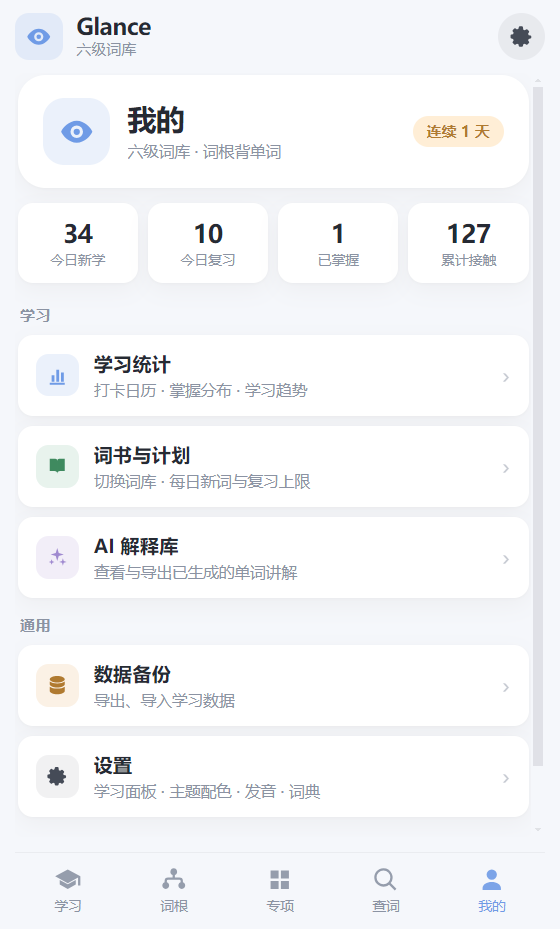
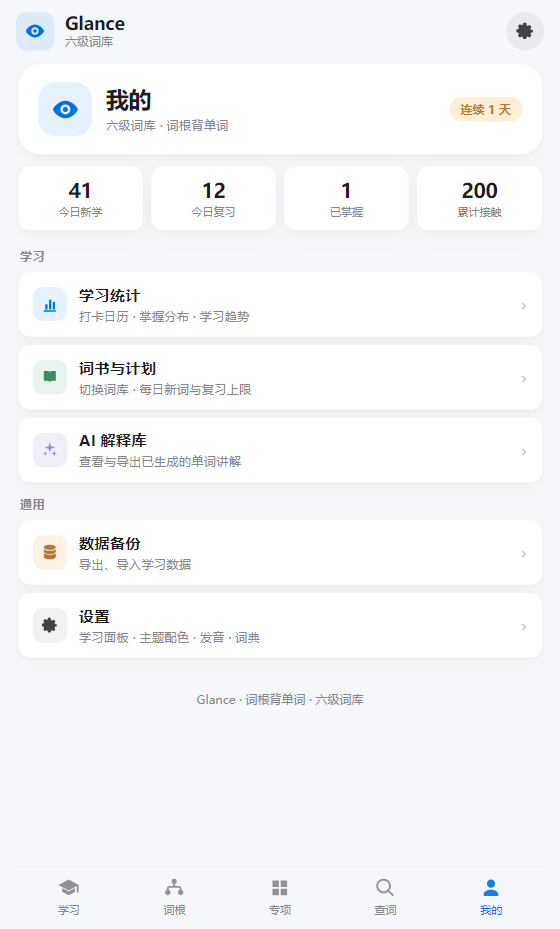
Redesign the theme system with eight ui-style-selector palettes
Replace the generic five colors with an Apple-led set (Apple, Japanese
Fresh, Warm Dashboard, Scandinavian, Monochrome, Notion, Korean Minimal,
Soft UI), each with light/dark tokens and a harmonized secondary accent
for the book banner and progress bar.

diff --git a/app/css/app.css b/app/css/app.css
@@ -1,16 +1,17 @@
 /* Glance — soft, calm design system. Muted pastel palette, light + dark. */
 :root {
-  --bg: #f5f7fb;
+  --bg: #f5f7fa;
   --card: #ffffff;
   --elevated: #ffffff;
-  --text: #262a33;
-  --text-2: #454b57;
-  --text-3: #8b93a3;
+  --text: #1d1d1f;
+  --text-2: #424245;
+  --text-3: #86868b;
   --separator: rgba(60, 60, 67, 0.1);
-  --hairline: rgba(0, 0, 0, 0.045);
+  --hairline: rgba(0, 0, 0, 0.05);
   --fill: rgba(120, 120, 128, 0.1);
   --fill-2: rgba(120, 120, 128, 0.17);
-  --accent: #6f9be6;
+  --accent: #0071e3;
+  --accent-2: #5e5ce6;
   --accent-fg: #ffffff;
   --green: #6fb58c;
   --green-fg: #3f8a5f;
@@ -20,8 +21,8 @@
   --red: #e0806d;
   --red-fg: #c05a48;
 
-  --root-bg: rgba(111, 155, 230, 0.14);
-  --root-fg: #4a7fc9;
+  --root-bg: rgba(0, 113, 227, 0.1);
+  --root-fg: #0068d1;
   --prefix-bg: rgba(160, 138, 208, 0.14);
   --prefix-fg: #8a6cc0;
   --suffix-bg: rgba(111, 181, 140, 0.16);
@@ -37,37 +38,80 @@
 }
 
 /* ---------- color themes ---------- */
+/* Japanese Fresh — matcha sage */
 html[data-theme="green"] {
-  --bg: #eff6f2; --card: #ffffff; --elevated: #ffffff;
-  --accent: #6aac83; --root-bg: rgba(106, 172, 131, 0.16); --root-fg: #3a7555;
+  --bg: #f4f7f1; --card: #ffffff; --elevated: #ffffff;
+  --text: #2c3730; --text-2: #48584e; --text-3: #83928a;
+  --accent: #53896a; --accent-2: #86b59a; --accent-fg: #ffffff;
+  --root-bg: rgba(152, 216, 200, 0.2); --root-fg: #3f7a68;
+  --hairline: rgba(44, 55, 48, 0.07);
 }
+/* Warm Dashboard — terracotta */
 html[data-theme="yellow"] {
-  --bg: #fbf4e6; --card: #ffffff; --elevated: #ffffff;
-  --accent: #cf9a3f; --root-bg: rgba(207, 154, 63, 0.18); --root-fg: #8c631c;
+  --bg: #faf5ee; --card: #fffdf9; --elevated: #fffdf9;
+  --text: #3a2f27; --text-2: #5c4c40; --text-3: #9a877a;
+  --accent: #b0674f; --accent-2: #d99a7a; --accent-fg: #ffffff;
+  --root-bg: rgba(212, 160, 136, 0.2); --root-fg: #9a5b43;
+  --hairline: rgba(58, 47, 39, 0.07);
 }
+/* Scandinavian — warm neutral */
 html[data-theme="gray"] {
-  --bg: #eff1f4; --card: #ffffff; --elevated: #ffffff;
-  --accent: #7d8899; --root-bg: rgba(125, 136, 153, 0.16); --root-fg: #515b6a;
+  --bg: #f3f2f0; --card: #ffffff; --elevated: #ffffff;
+  --text: #2f3335; --text-2: #4f565a; --text-3: #878e93;
+  --accent: #6d7b84; --accent-2: #9aa7ae; --accent-fg: #ffffff;
+  --root-bg: rgba(109, 123, 132, 0.14); --root-fg: #4e5c66;
+  --hairline: rgba(47, 51, 53, 0.07);
 }
+/* Monochrome — ink */
 html[data-theme="black"] {
-  --bg: #ededef; --card: #ffffff; --elevated: #ffffff;
-  --accent: #2f333a; --root-bg: rgba(47, 51, 58, 0.1); --root-fg: #2f333a;
+  --bg: #f6f6f6; --card: #ffffff; --elevated: #ffffff;
+  --text: #111111; --text-2: #333333; --text-3: #8a8a8a;
+  --accent: #1d1d1f; --accent-2: #4a4a4f; --accent-fg: #ffffff;
+  --root-bg: rgba(17, 17, 17, 0.08); --root-fg: #1d1d1f;
+  --hairline: rgba(0, 0, 0, 0.07);
+}
+/* Notion — paper + teal ink */
+html[data-theme="paper"] {
+  --bg: #f7f7f5; --card: #ffffff; --elevated: #ffffff;
+  --text: #37352f; --text-2: #5c594f; --text-3: #8f8b81;
+  --accent: #0f7b6c; --accent-2: #3fa796; --accent-fg: #ffffff;
+  --root-bg: rgba(15, 123, 108, 0.1); --root-fg: #0b6557;
+  --hairline: rgba(55, 53, 47, 0.08);
+}
+/* Korean Minimal — dusty rose */
+html[data-theme="sakura"] {
+  --bg: #faf7f7; --card: #ffffff; --elevated: #ffffff;
+  --text: #352d2f; --text-2: #5b4e51; --text-3: #a08f93;
+  --accent: #ad6673; --accent-2: #d5a3ab; --accent-fg: #ffffff;
+  --root-bg: rgba(212, 165, 165, 0.22); --root-fg: #955c66;
+  --prefix-bg: rgba(168, 197, 184, 0.22); --prefix-fg: #5c7f6f;
+  --hairline: rgba(53, 45, 47, 0.07);
+}
+/* Soft UI — indigo */
+html[data-theme="violet"] {
+  --bg: #f4f4fb; --card: #ffffff; --elevated: #ffffff;
+  --text: #2f2d3a; --text-2: #4f4b63; --text-3: #8b86a0;
+  --accent: #6c63c9; --accent-2: #9a93e0; --accent-fg: #ffffff;
+  --root-bg: rgba(108, 99, 201, 0.12); --root-fg: #554bab;
+  --hairline: rgba(47, 45, 58, 0.06);
 }
 
 @media (prefers-color-scheme: dark) {
+  /* Apple — default dark */
   :root {
-    --bg: #16181d;
-    --card: #1f232b;
-    --elevated: #262b34;
-    --text: #e8e6e1;
-    --text-2: #c9c8c4;
-    --text-3: #8b8f98;
+    --bg: #131418;
+    --card: #1c1c1e;
+    --elevated: #242426;
+    --text: #f5f5f7;
+    --text-2: #c7c7cc;
+    --text-3: #8e8e93;
     --separator: rgba(84, 84, 88, 0.5);
     --hairline: rgba(255, 255, 255, 0.06);
     --fill: rgba(120, 120, 128, 0.2);
     --fill-2: rgba(120, 120, 128, 0.3);
-    --accent: #93b8f0;
-    --accent-fg: #16181d;
+    --accent: #0a84ff;
+    --accent-2: #5e5ce6;
+    --accent-fg: #ffffff;
     --green: #8fd0a8;
     --green-fg: #8fd0a8;
     --purple: #bda6e6;
@@ -76,8 +120,8 @@ html[data-theme="black"] {
     --red: #e89a88;
     --red-fg: #e89a88;
 
-    --root-bg: rgba(147, 184, 240, 0.18);
-    --root-fg: #aecbf2;
+    --root-bg: rgba(10, 132, 255, 0.18);
+    --root-fg: #6cb2ff;
     --prefix-bg: rgba(189, 166, 230, 0.18);
     --prefix-fg: #cdb9ee;
     --suffix-bg: rgba(143, 208, 168, 0.18);
@@ -86,21 +130,62 @@ html[data-theme="black"] {
     --shadow-card: 0 1px 2px rgba(0, 0, 0, 0.25);
     --shadow-pop: 0 8px 28px rgba(0, 0, 0, 0.45);
   }
+  /* Japanese Fresh — matcha sage */
   html[data-theme="green"] {
-    --bg: #131a16; --card: #1e2721; --elevated: #25312a;
-    --accent: #8fd0a8; --root-bg: rgba(143, 208, 168, 0.16); --root-fg: #a8d8bc;
+    --bg: #141a16; --card: #1e2721; --elevated: #25312a;
+    --text: #e6ece8; --text-2: #c2cec6; --text-3: #8a9a90;
+    --accent: #7fc79d; --accent-2: #4b8f6d; --accent-fg: #0f1a14;
+    --root-bg: rgba(127, 199, 157, 0.16); --root-fg: #9ed9b6;
+    --hairline: rgba(255, 255, 255, 0.06);
   }
+  /* Warm Dashboard — terracotta */
   html[data-theme="yellow"] {
-    --bg: #1b1711; --card: #27231c; --elevated: #302b22;
-    --accent: #e6c07f; --root-bg: rgba(230, 192, 127, 0.16); --root-fg: #e6c07f;
+    --bg: #1c1713; --card: #26201a; --elevated: #302821;
+    --text: #f0e7dd; --text-2: #d4c5b6; --text-3: #a08d7c;
+    --accent: #e0a17c; --accent-2: #b0674f; --accent-fg: #21150f;
+    --root-bg: rgba(224, 161, 124, 0.16); --root-fg: #eeb997;
+    --hairline: rgba(255, 255, 255, 0.06);
   }
+  /* Scandinavian — warm neutral */
   html[data-theme="gray"] {
-    --bg: #141519; --card: #212327; --elevated: #292c31;
-    --accent: #aeb7c4; --root-bg: rgba(174, 183, 196, 0.16); --root-fg: #c3cad4;
+    --bg: #141516; --card: #1f2123; --elevated: #282b2d;
+    --text: #e9eaea; --text-2: #c4c8cb; --text-3: #8d9499;
+    --accent: #a9b6bd; --accent-2: #6d7b84; --accent-fg: #121517;
+    --root-bg: rgba(169, 182, 189, 0.16); --root-fg: #c3ccd2;
+    --hairline: rgba(255, 255, 255, 0.06);
   }
+  /* Monochrome — ink */
   html[data-theme="black"] {
-    --bg: #0c0d0f; --card: #1a1b1e; --elevated: #222327;
-    --accent: #e6e7ea; --root-bg: rgba(230, 231, 234, 0.12); --root-fg: #eceef1;
+    --bg: #0b0b0c; --card: #17181a; --elevated: #202123;
+    --text: #f2f2f3; --text-2: #c9c9cb; --text-3: #8a8a8c;
+    --accent: #ecedee; --accent-2: #9a9a9e; --accent-fg: #0b0b0c;
+    --root-bg: rgba(236, 237, 238, 0.12); --root-fg: #f2f2f3;
+    --hairline: rgba(255, 255, 255, 0.07);
+  }
+  /* Notion — paper + teal ink */
+  html[data-theme="paper"] {
+    --bg: #191919; --card: #212121; --elevated: #2a2a2a;
+    --text: #e9e7e2; --text-2: #c4c1ba; --text-3: #8f8b83;
+    --accent: #4cc4ad; --accent-2: #2f8f7f; --accent-fg: #0d1a17;
+    --root-bg: rgba(76, 196, 173, 0.16); --root-fg: #7dd8c6;
+    --hairline: rgba(255, 255, 255, 0.07);
+  }
+  /* Korean Minimal — dusty rose */
+  html[data-theme="sakura"] {
+    --bg: #1b1517; --card: #251d20; --elevated: #2e2427;
+    --text: #efe6e7; --text-2: #d0c1c3; --text-3: #a08f93;
+    --accent: #e2a3ae; --accent-2: #ad6673; --accent-fg: #23171a;
+    --root-bg: rgba(226, 163, 174, 0.16); --root-fg: #edbcc4;
+    --prefix-bg: rgba(168, 197, 184, 0.16); --prefix-fg: #a9cbbb;
+    --hairline: rgba(255, 255, 255, 0.07);
+  }
+  /* Soft UI — indigo */
+  html[data-theme="violet"] {
+    --bg: #15141c; --card: #1f1e2a; --elevated: #272634;
+    --text: #e8e6f2; --text-2: #c6c3d8; --text-3: #938fab;
+    --accent: #a49df0; --accent-2: #7a72d8; --accent-fg: #17151c;
+    --root-bg: rgba(164, 157, 240, 0.16); --root-fg: #bcb6f5;
+    --hairline: rgba(255, 255, 255, 0.06);
   }
 }
 
@@ -230,7 +315,7 @@ input, select { font-family: inherit; }
 .app[data-current="study"] .app-header { display: none; }
 .study-top { flex: 0 0 auto; display: flex; align-items: center; justify-content: space-between; gap: 14px; min-height: 34px; }
 .study-progress { flex: 1 1 auto; max-width: 220px; height: 6px; border-radius: 999px; background: var(--fill); overflow: hidden; }
-.study-progress-fill { display: block; width: 0; height: 100%; border-radius: inherit; background: linear-gradient(90deg, rgba(147, 184, 240, 0.65), var(--accent)); transition: width .55s cubic-bezier(.22, .61, .36, 1); }
+.study-progress-fill { display: block; width: 0; height: 100%; border-radius: inherit; background: linear-gradient(90deg, var(--accent-2), var(--accent)); transition: width .55s cubic-bezier(.22, .61, .36, 1); }
 .study-top .study-top-actions { display: flex; align-items: center; gap: 8px; }
 .study-top .mode-switch { width: 132px; flex: 0 0 auto; }
 .study-top .mode-btn { height: 30px; font-size: 13px; }
@@ -420,7 +505,7 @@ button.info-chip:hover { background: var(--fill-2); color: var(--text); }
 .day-nums { flex: 0 0 auto; font-size: 12.5px; color: var(--text-2); font-variant-numeric: tabular-nums; }
 
 /* ---------- books ---------- */
-.active-book { background: linear-gradient(135deg, var(--accent), var(--purple)); border-radius: var(--r-lg); padding: 20px; color: #fff; box-shadow: var(--shadow-card); flex: 0 0 auto; }
+.active-book { background: linear-gradient(135deg, var(--accent), var(--accent-2)); border-radius: var(--r-lg); padding: 20px; color: #fff; box-shadow: var(--shadow-card); flex: 0 0 auto; }
 .active-book .ab-name { font-size: 22px; font-weight: 700; }
 .active-book .ab-sub { font-size: 13px; opacity: 0.85; margin-top: 3px; }
 .active-book .ab-bar { height: 6px; border-radius: 6px; background: rgba(255, 255, 255, 0.3); overflow: hidden; margin-top: 14px; }
@@ -615,17 +700,20 @@ button:disabled { opacity: 0.45; cursor: default; }
 .settings-pane { display: flex; flex-direction: column; gap: 16px; }
 .settings-pane[hidden] { display: none; }
 
-.theme-swatches { display: grid; grid-template-columns: repeat(5, minmax(0, 1fr)); gap: 6px; }
+.theme-swatches { display: grid; grid-template-columns: repeat(4, minmax(0, 1fr)); gap: 6px; }
 .theme-swatch { min-width: 0; display: flex; flex-direction: column; align-items: center; gap: 8px; padding: 12px 2px; border: none; border-radius: var(--r-sm); background: var(--fill); color: var(--text-2); font-size: 12.5px; font-weight: 600; cursor: pointer; transition: box-shadow .16s ease, background .16s ease, transform .12s ease; }
 .theme-swatch:hover { background: var(--fill-2); }
 .theme-swatch:active { transform: scale(0.97); }
 .theme-swatch.active { background: var(--card); color: var(--text); box-shadow: inset 0 0 0 2px var(--accent); }
 .theme-dot { width: 28px; height: 28px; border-radius: 50%; box-shadow: inset 0 0 0 1px rgba(0, 0, 0, 0.06); }
-.dot-blue { background: linear-gradient(135deg, #dbe6f8, #6f9be6); }
-.dot-green { background: linear-gradient(135deg, #e2f1e7, #72b08a); }
-.dot-yellow { background: linear-gradient(135deg, #fbf0d8, #d9a84e); }
-.dot-gray { background: linear-gradient(135deg, #e8eaee, #8b95a5); }
-.dot-black { background: linear-gradient(135deg, #cfd1d6, #3f444d); }
+.dot-blue { background: linear-gradient(135deg, #d9e8ff, #0071e3); }
+.dot-green { background: linear-gradient(135deg, #e4f1e6, #53896a); }
+.dot-yellow { background: linear-gradient(135deg, #fbead9, #b0674f); }
+.dot-gray { background: linear-gradient(135deg, #e9e8e5, #6d7b84); }
+.dot-black { background: linear-gradient(135deg, #e6e6e6, #1d1d1f); }
+.dot-paper { background: linear-gradient(135deg, #f1f0ec, #0f7b6c); }
+.dot-sakura { background: linear-gradient(135deg, #f7e6e8, #ad6673); }
+.dot-violet { background: linear-gradient(135deg, #e7e4fb, #6c63c9); }
 
 /* ---------- me ---------- */
 .me-hero { flex: 0 0 auto; display: flex; align-items: center; gap: 14px; background: var(--card); border-radius: var(--r-lg); box-shadow: var(--shadow-card); padding: 18px 20px; }

diff --git a/app/index.html b/app/index.html
@@ -3,8 +3,8 @@
 <head>
   <meta charset="UTF-8" />
   <meta name="viewport" content="width=device-width, initial-scale=1.0, viewport-fit=cover, maximum-scale=1.0, user-scalable=no" />
-  <meta name="theme-color" content="#f2f2f7" />
-  <meta name="theme-color" content="#000000" media="(prefers-color-scheme: dark)" />
+  <meta name="theme-color" content="#f5f7fa" />
+  <meta name="theme-color" content="#131418" media="(prefers-color-scheme: dark)" />
   <title>Glance · 词根背单词</title>
   <link rel="stylesheet" href="css/app.css" />
 </head>
@@ -534,11 +534,14 @@
           <h4>主题配色</h4>
           <p class="field-hint">选择界面的基础色调，浅色与深色模式都会跟随。</p>
           <div class="theme-swatches" role="radiogroup" aria-label="主题配色">
-            <button class="theme-swatch" data-theme-choice="blue" type="button" role="radio" aria-checked="false"><span class="theme-dot dot-blue"></span><span>天蓝</span></button>
-            <button class="theme-swatch" data-theme-choice="green" type="button" role="radio" aria-checked="false"><span class="theme-dot dot-green"></span><span>浅绿</span></button>
-            <button class="theme-swatch" data-theme-choice="yellow" type="button" role="radio" aria-checked="false"><span class="theme-dot dot-yellow"></span><span>暖黄</span></button>
-            <button class="theme-swatch" data-theme-choice="gray" type="button" role="radio" aria-checked="false"><span class="theme-dot dot-gray"></span><span>雾灰</span></button>
-            <button class="theme-swatch" data-theme-choice="black" type="button" role="radio" aria-checked="false"><span class="theme-dot dot-black"></span><span>墨黑</span></button>
+            <button class="theme-swatch" data-theme-choice="blue" type="button" role="radio" aria-checked="false" title="Apple 风格"><span class="theme-dot dot-blue"></span><span>天蓝</span></button>
+            <button class="theme-swatch" data-theme-choice="green" type="button" role="radio" aria-checked="false" title="日式清新"><span class="theme-dot dot-green"></span><span>抹茶</span></button>
+            <button class="theme-swatch" data-theme-choice="yellow" type="button" role="radio" aria-checked="false" title="暖调仪表盘"><span class="theme-dot dot-yellow"></span><span>暖陶</span></button>
+            <button class="theme-swatch" data-theme-choice="gray" type="button" role="radio" aria-checked="false" title="北欧中性"><span class="theme-dot dot-gray"></span><span>雾灰</span></button>
+            <button class="theme-swatch" data-theme-choice="black" type="button" role="radio" aria-checked="false" title="单色墨黑"><span class="theme-dot dot-black"></span><span>墨黑</span></button>
+            <button class="theme-swatch" data-theme-choice="paper" type="button" role="radio" aria-checked="false" title="Notion 纸感"><span class="theme-dot dot-paper"></span><span>纸白</span></button>
+            <button class="theme-swatch" data-theme-choice="sakura" type="button" role="radio" aria-checked="false" title="韩式极简"><span class="theme-dot dot-sakura"></span><span>樱粉</span></button>
+            <button class="theme-swatch" data-theme-choice="violet" type="button" role="radio" aria-checked="false" title="柔和靛紫"><span class="theme-dot dot-violet"></span><span>暮紫</span></button>
           </div>
         </section>
         <section class="set-group">

diff --git a/app/js/store.js b/app/js/store.js
@@ -56,7 +56,7 @@
     if (!Array.isArray(d.studyPanelOrder)) d.studyPanelOrder = [];
     const savedOrder = d.studyPanelOrder.filter((id, i) => panelIds.includes(id) && d.studyPanelOrder.indexOf(id) === i);
     d.studyPanelOrder = savedOrder.concat(panelIds.filter(id => !savedOrder.includes(id)));
-    if (!['blue', 'green', 'yellow', 'gray', 'black'].includes(d.theme)) d.theme = 'blue';
+    if (!['blue', 'green', 'yellow', 'gray', 'black', 'paper', 'sakura', 'violet'].includes(d.theme)) d.theme = 'blue';
     if (!d.fsrs || typeof d.fsrs !== 'object') d.fsrs = { w: null, seqs: {}, count: 0, lastOpt: 0 };
     if (!d.fsrs.seqs || typeof d.fsrs.seqs !== 'object') d.fsrs.seqs = {};
     if (!d.ai || typeof d.ai !== 'object') d.ai = { provider: 'deepseek', key: '', model: '', base: '', enabled: false };
@@ -375,7 +375,7 @@
         if (Array.isArray(s.cardOrder) && s.cardOrder.length) data.cardOrder = s.cardOrder.slice();
         if (isObj(s.studyPanel)) data.studyPanel = Object.assign({}, DEFAULTS.studyPanel, s.studyPanel);
         if (Array.isArray(s.studyPanelOrder) && s.studyPanelOrder.length) data.studyPanelOrder = s.studyPanelOrder.slice();
-        if (['blue', 'green', 'yellow', 'gray', 'black'].includes(s.theme)) data.theme = s.theme;
+        if (['blue', 'green', 'yellow', 'gray', 'black', 'paper', 'sakura', 'violet'].includes(s.theme)) data.theme = s.theme;
         ['autoSpeak', 'preferAudio'].forEach(k => { if (typeof s[k] === 'boolean') data[k] = s[k]; });
         if (typeof s.ttsRate === 'number') data.ttsRate = s.ttsRate;
         if (typeof s.ttsLang === 'string') data.ttsLang = s.ttsLang;

diff --git a/app/js/app.js b/app/js/app.js
@@ -57,11 +57,14 @@
 
   // ===================== theme =====================
   const THEME_META = {
-    blue: ['#f5f7fb', '#16181d'],
-    green: ['#eff6f2', '#131a16'],
-    yellow: ['#fbf4e6', '#1b1711'],
-    gray: ['#eff1f4', '#141519'],
-    black: ['#ededef', '#0c0d0f'],
+    blue: ['#f5f7fa', '#131418'],
+    green: ['#f4f7f1', '#141a16'],
+    yellow: ['#faf5ee', '#1c1713'],
+    gray: ['#f3f2f0', '#141516'],
+    black: ['#f6f6f6', '#0b0b0c'],
+    paper: ['#f7f7f5', '#191919'],
+    sakura: ['#faf7f7', '#1b1517'],
+    violet: ['#f4f4fb', '#15141c'],
   };
   function applyTheme(theme) {
     const t = THEME_META[theme] ? theme : 'blue';

diff --git a/README.md b/README.md
@@ -24,7 +24,7 @@
 - 每日新词/复习计划、打卡日历、掌握分布、正确率与学习时长统计。
 
 **顺手用**
-- 5 套基础配色：天蓝、浅绿、暖黄、雾灰、墨黑，自动适配系统浅色/深色模式。
+- 8 套配色：天蓝（Apple）、抹茶（日式清新）、暖陶（暖调仪表盘）、雾灰（北欧中性）、墨黑（单色）、纸白（Notion）、樱粉（韩式极简）、暮紫（柔和靛紫），各自适配浅色/深色模式。
 - 设置按功能分类：学习、外观、发音、词书、词典、AI 解释、数据，不再堆在长列表里。
 - 底部「我的」集中管理学习统计、词书与计划、AI 解释库、数据备份与设置。
 - 查词、查词历史、生词本分组；每个词自动记录**查看次数**，统计页可看高频接触词与掌握状态。
@@ -46,9 +46,13 @@
 | --- | --- |
 | <img src="docs/screenshots/settings.png" width="280" alt="设置分类与主题配色" /> | <img src="docs/screenshots/dictionary.png" width="280" alt="词典卡片" /> |
 
-| 浅绿主题 | 词书与计划 |
+| 纸白主题 | 樱粉主题 |
 | --- | --- |
-| <img src="docs/screenshots/theme-green.png" width="280" alt="浅绿主题" /> | <img src="docs/screenshots/books.png" width="280" alt="词书与每日计划" /> |
+| <img src="docs/screenshots/theme-paper.png" width="280" alt="纸白主题" /> | <img src="docs/screenshots/theme-sakura.png" width="280" alt="樱粉主题" /> |
+
+| 暮紫主题 | 词书与计划 |
+| --- | --- |
+| <img src="docs/screenshots/theme-violet.png" width="280" alt="暮紫主题" /> | <img src="docs/screenshots/books.png" width="280" alt="词书与每日计划" /> |
 
 | 面板排序 | 按顺序展示 |
 | --- | --- |
@@ -69,7 +73,7 @@
 3. **查词**：底部「查词」搜索单词、词根或词缀；打开词卡可看词性详解、助记、词根家族、外部词典与 AI 讲解。
 4. **词典**：词卡内点「查询词典」按当前服务商检索，结果自动缓存；在「设置 → 词典」切换服务商。
 5. **我的**：底部「我的」查看今日进度、连续打卡与掌握数，进入学习统计、词书与计划、AI 解释库、数据备份或完整设置。
-6. **外观**：「设置 → 外观」切换天蓝 / 浅绿 / 暖黄 / 雾灰 / 墨黑五套基础配色，深色模式自动跟随系统。
+6. **外观**：「设置 → 外观」切换天蓝 / 抹茶 / 暖陶 / 雾灰 / 墨黑 / 纸白 / 樱粉 / 暮紫八套配色，深色模式自动跟随系统。
 7. **备份**：「设置 → 数据」导出全部学习数据，或导入 JSON 恢复（合并 / 覆盖两种模式）。
 
 ## 数据格式

diff --git a/DEVELOPMENT.md b/DEVELOPMENT.md
@@ -371,6 +371,19 @@
 
 **交付**：run `43374060828` → Release `android-14`（target `eb42460`，APK 13,102,468 字节），标题为「Add reorderable study panel with drag and arrow controls」。
 
+### 8.8 主题体系重做（P11）✅
+
+**反馈**：主题部分需要根据项目挑几套合适的风格并优化（参考 `ui-style-selector`）。
+
+- [x] **选型**：按 ui-style-selector 的色板与设计 token，选择适合长时阅读与背词的 8 种风格——Apple（天蓝）、Japanese Fresh（抹茶）、Warm Dashboard（暖陶）、Scandinavian（雾灰）、Monochrome（墨黑）、Notion（纸白）、Korean Minimal（樱粉）、Soft UI（暮紫）。
+- [x] **默认主题**：`--bg #f5f7fa`、`--text #1d1d1f`、`--accent #0071e3`，重校文字三级层级、hairline 与 root/prefix/suffix 语义色；8 套主题各自覆写背景、卡片、文字与语义色。
+- [x] **次强调色**：新增 `--accent-2`（蓝→靛、抹茶→浅鼠尾草、暖陶→浅陶、…），词书横幅与学习进度条改为 `accent → accent-2` 渐变，不再固定蓝紫。
+- [x] **深色模式**：逐主题定义深色背景/卡片/文字/accent/accent-2；默认深色对齐 Apple（`#131418` / `#0a84ff`）。
+- [x] **外观页**：8 个色卡（天蓝/抹茶/暖陶/雾灰/墨黑/纸白/樱粉/暮紫）4 列两行，`THEME_META`、store 归一化与导入白名单、theme-color meta 同步扩容。
+- [x] **文档**：全部截图按新配色重拍，新增 `theme-paper/sakura/violet`，移除旧 `theme-green`；README 功能与使用说明更新为 8 套配色。
+
+**验证（CDP 实操）**：`verify-p9.js` 21/21——8 套主题切换、持久化、active 状态、浅/深 theme-color、accent 与 accent-2；回归 `verify-all` 15/15、`verify-panel` 6/6、`verify-order` 7/7；360px 色卡网格 4 列无溢出；桌面/移动/深色截图逐张检查。
+
 ---
 
 ## 9. 关键约束与注意事项
